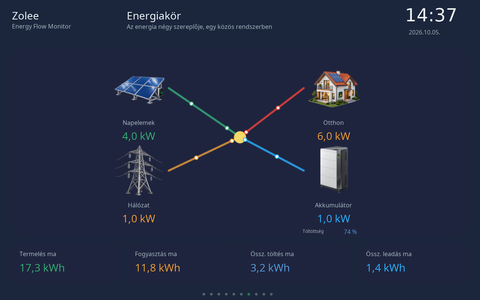
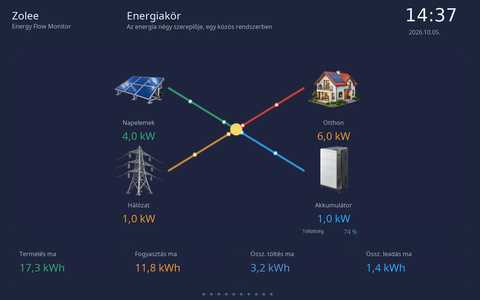
Align Energy Orbit axes and place its pulse above flow dots
Give opposing branches a shared axis and symmetric endpoints in both modes. Add opt-in pulse foreground support to the renderer and both manifest validators. Verify collinearity and actual LVGL stacking, refresh Energy Orbit v12 previews and documentation.

Changed region(s): [[0.3438, 0.3, 0.625, 0.57]]

diff --git a/assets/web/template-manager.js b/assets/web/template-manager.js
@@ -56,7 +56,7 @@ function validateManifest(doc,files){
     throw Error('Hibás elemhatár ('+mode+', #'+(index+1)+', '+e.type+'): '+e.x+','+e.y+' '+e.w+'×'+e.h);
    if(['value','flow','bar','gauge'].includes(e.type)&&typeof e.source!=='string')throw Error('Hibás adatforrás');
    for(const key of ['color','background','positive_color','negative_color','zero_color','shadow_color'])if(e[key]!==undefined&&!color(e[key]))throw Error('Hibás szín');
-   if(e.foreground!==undefined&&(typeof e.foreground!=='boolean'||e.type!=='image'))throw Error('Hibás ikonréteg');
+   if(e.foreground!==undefined&&(typeof e.foreground!=='boolean'||!['image','pulse'].includes(e.type)))throw Error('Hibás előtérréteg');
    if(e.soc_four_bands!==undefined&&(typeof e.soc_four_bands!=='boolean'||e.type!=='bar'||e.source!=='soc'))throw Error('Hibás SOC-színezés');
    if(['preview-light.png','preview-dark.png'].includes(e.file)||Object.values(e.files??{}).some(name=>['preview-light.png','preview-dark.png'].includes(name)))throw Error('Az előnézet nem lehet kijelzőikon');
    if(e.type==='image'&&(!safeAsset(e.file)||!files.has(e.file)))throw Error('Hiányzó PNG');

diff --git a/tests/test_web_preview.js b/tests/test_web_preview.js
@@ -67,6 +67,11 @@ async function read(path){const b=fs.readFileSync(path);return sandbox.api.unpac
  assert(solarFiles.has('preview-light.png')&&solarFiles.has('preview-dark.png'));
  const legacy=await read(process.argv[2]);const doc=JSON.parse(new TextDecoder().decode(legacy.get('template.json')));
  const oldMetric=sandbox.api.validateManifest(doc,legacy);
+ const pulseDoc=JSON.parse(JSON.stringify(doc));
+ for(const mode of ['light','dark'])pulseDoc[mode].elements.push({type:'pulse',x:614,y:329,w:32,h:32,color:'#FFE36B',foreground:true});
+ assert.strictEqual(sandbox.api.validateManifest(pulseDoc,legacy).decoded,oldMetric.decoded);
+ pulseDoc.light.elements.at(-1).foreground='true';
+ assert.throws(()=>sandbox.api.validateManifest(pulseDoc,legacy));
  legacy.set('preview-light.png',legacy.get('image.png'));
  assert.throws(()=>sandbox.api.validateManifest(doc,legacy));
  legacy.set('preview-dark.png',legacy.get('image.png'));

diff --git a/tests/preview/preview.c b/tests/preview/preview.c
@@ -212,8 +212,11 @@ static void test_theme_readability(void){
         active.power_pv_kw=4;active.power_grid_kw=1;active.power_bat_kw=1;active.power_full_kw=6;
         template_update(&active,&fixture);template_animate(.02f);
         unsigned flows=0,icons=0;
+        template_node_t *pulse=NULL;
+        lv_point_t ends[4]={{0}};
         for(unsigned i=0;i<template_node_count;i++){
             template_node_t *node=&template_nodes[i];
+            if(!strcmp(ts(node->spec,"type"),"pulse"))pulse=node;
             if(!strcmp(ts(node->spec,"type"),"flow")){
                 flows++;
                 assert(node->point_count==2&&node->length<240);
@@ -222,12 +225,27 @@ static void test_theme_readability(void){
                 assert(!lv_obj_has_flag(node->dots[1],LV_OBJ_FLAG_HIDDEN));
                 assert(lv_obj_has_flag(node->dots[2],LV_OBJ_FLAG_HIDDEN));
                 assert(lv_obj_has_flag(node->dots[3],LV_OBJ_FLAG_HIDDEN));
+                const char *source=ts(node->spec,"source");
+                int id=!strcmp(source,"pv")?0:!strcmp(source,"battery")?1:!strcmp(source,"grid")?2:3;
+                unsigned outer=id==3?1:0,inner=1-outer;
+                int x=tn(node->spec,"x",0),y=tn(node->spec,"y",0);
+                assert(x+node->points[inner].x==630&&y+node->points[inner].y==345);
+                ends[id]=(lv_point_t){x+node->points[outer].x-630,y+node->points[outer].y-345};
             }
             if(!strcmp(ts(node->spec,"type"),"image")){
                 icons++;assert(tn(node->spec,"w",0)==160&&tn(node->spec,"h",0)==160);
             }
         }
         assert(flows==4&&icons==4);
+        assert(ends[0].x==-ends[1].x&&ends[0].y==-ends[1].y);
+        assert(ends[2].x==-ends[3].x&&ends[2].y==-ends[3].y);
+        assert(pulse&&lv_obj_get_x(pulse->obj)+16==630&&lv_obj_get_y(pulse->obj)+16==345);
+        for(unsigned i=0;i<template_node_count;i++){
+            template_node_t *node=&template_nodes[i];
+            assert(lv_obj_get_index(pulse->obj)>=lv_obj_get_index(node->obj));
+            if(!strcmp(ts(node->spec,"type"),"flow"))
+                for(int d=0;d<4;d++)assert(lv_obj_get_index(pulse->obj)>lv_obj_get_index(node->dots[d]));
+        }
         template_update(&saved,&fixture);
     }
     if(!strcmp(id,"03-instruments")){

diff --git a/main/app_template_page.h b/main/app_template_page.h
@@ -66,7 +66,7 @@ static const char template_manager_page[] =
 "    throw Error('Hibás elemhatár ('+mode+', #'+(index+1)+', '+e.type+'): '+e.x+','+e.y+' '+e.w+'×'+e.h);\n"
 "   if(['value','flow','bar','gauge'].includes(e.type)&&typeof e.source!=='string')throw Error('Hibás adatforrás');\n"
 "   for(const key of ['color','background','positive_color','negative_color','zero_color','shadow_color'])if(e[key]!==undefined&&!color(e[key]))throw Error('Hibás szín');\n"
-"   if(e.foreground!==undefined&&(typeof e.foreground!=='boolean'||e.type!=='image'))throw Error('Hibás ikonréteg');\n"
+"   if(e.foreground!==undefined&&(typeof e.foreground!=='boolean'||!['image','pulse'].includes(e.type)))throw Error('Hibás előtérréteg');\n"
 "   if(e.soc_four_bands!==undefined&&(typeof e.soc_four_bands!=='boolean'||e.type!=='bar'||e.source!=='soc'))throw Error('Hibás SOC-színezés');\n"
 "   if(['preview-light.png','preview-dark.png'].includes(e.file)||Object.values(e.files?\?{}).some(name=>['preview-light.png','preview-dark.png'].includes(name)))throw Error('Az előnézet nem lehet kijelzőikon');\n"
 "   if(e.type==='image'&&(!safeAsset(e.file)||!files.has(e.file)))throw Error('Hiányzó PNG');\n"

diff --git a/main/app_templates.c b/main/app_templates.c
@@ -149,7 +149,7 @@ static bool validate_scene(const cJSON *scene){
            (strcmp(type,"value")&&strcmp(type,"label"))))return false;
         if(cJSON_HasObjectItem(e,"reference_style")&&(!cJSON_IsBool(cJSON_GetObjectItem(e,"reference_style"))||strcmp(type,"chart")))return false;
         if(cJSON_HasObjectItem(e,"soc_four_bands")&&(!cJSON_IsBool(cJSON_GetObjectItem(e,"soc_four_bands"))||strcmp(type,"bar")||!source||strcmp(source,"soc")))return false;
-        if(cJSON_HasObjectItem(e,"foreground")&&(!cJSON_IsBool(cJSON_GetObjectItem(e,"foreground"))||strcmp(type,"image")))return false;
+        if(cJSON_HasObjectItem(e,"foreground")&&(!cJSON_IsBool(cJSON_GetObjectItem(e,"foreground"))||(strcmp(type,"image")&&strcmp(type,"pulse"))))return false;
         if(cJSON_HasObjectItem(e,"text_shadow")&&(!cJSON_IsBool(cJSON_GetObjectItem(e,"text_shadow"))||
            (strcmp(type,"value")&&strcmp(type,"label"))))return false;
         if(!number(e,"glow",0,24,true)||!number(e,"shadow_offset",0,4,true)||!number(e,"shadow_opacity",0,255,true))return false;

diff --git a/docs/templates.md b/docs/templates.md
@@ -279,8 +279,8 @@ képernyős színezőmaszk: csak a kártyák áttetsző háttere fedi a háttér
 A webes aktiválás is megjeleníti az eszköz betöltőképernyőjét az SD-olvasás előtt.
 
 A szövegelemek `text_shadow: true` mellett opcionális `shadow_color` színt
-kaphatnak (alapértelmezés: fekete). A `foreground: true` kizárólag `image`
-elemnél engedélyezett: a képet az áramló pontok fölé emeli. Az Energiautak
+kaphatnak (alapértelmezés: fekete). A `foreground: true` az `image` és `pulse`
+elemeknél engedélyezett: az elemet az áramló pontok fölé emeli. Az Energiautak
 fejléce fehér árnyékot, inverterikonja ilyen előtér-réteget használ; nincs
 alap háttérmaszkja. A Műszerfal fejléce mindkét módban fehér, kártyafeliratai
 feketék, kártyái világos alapúak. Az Energiafőkönyv táblázat- és kártyacímei
@@ -293,5 +293,8 @@ A `/api/templates/preview?id=builtin&mode=light` és `mode=dark` végpontok
 ugyanazzal a hitelesítéssel működnek, mint a többi előnézet.
 
 Az Energiautak v11-ben a nappali fekete kártyacímek, ikonfeliratok és állapot
-sötét módban fehérek. Az Energiakör v11 átrendezése kizárólag a saját JSON-ját
-érinti: az energiaáramlás közös sebességképlete és a többi téma változatlan.
+sötét módban fehérek. Az Energiakör v12 két közös tengelyre illesztett,
+szimmetrikus keresztet használ; a középső `pulse` elem `foreground: true`
+beállítással a vonalak és a mozgó pontok fölött pulzál mindkét módban.
+Ehhez a v12-es ZIP mellett a `pulse` előtérjelölését támogató firmware is
+frissítendő. Az energiaáramlás közös sebességképlete változatlan.
